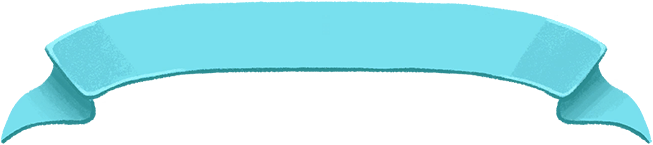
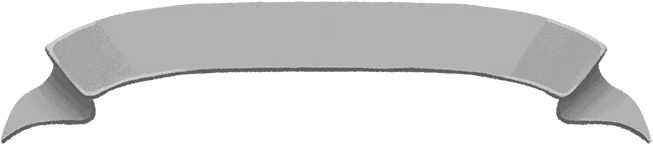
fix: 카드 에셋 수정

diff --git a/Assets/01_Scripts/Cards/CardView.cs b/Assets/01_Scripts/Cards/CardView.cs
@@ -4,19 +4,22 @@ using UnityEngine.Rendering;
 
 public class CardView : MonoBehaviour
 {
+    [Header("# Renderers")]
     [SerializeField] private SpriteRenderer cardImageSr;
     [SerializeField] private SpriteRenderer cardFrameSr;
     [SerializeField] private SpriteRenderer cardBorderSr;
     [SerializeField] private SpriteRenderer cardTypeSr;
 
+    [Header("# Texts")]
     [SerializeField] private TextMeshPro cardNameText;
     [SerializeField] private TextMeshPro cardEffectText; // 변경 가능성
     [SerializeField] private TextMeshPro cardTypeText;
     [SerializeField] private TextMeshPro cardCostText; // 변경 가능성
 
-    [SerializeField] private Sprite[] frameByType; // cardtype enum 순서 atk, ski, pow
-
-    // [SerializeField] private Sprite[] typeIconByType;
+    [Header("# Style Tables")]
+    [SerializeField] private Sprite[] borderByType; // cardtype  순서 atk, ski, pow
+    [SerializeField] private Color[] colorByRarity; // 순서 basic common unique rare
+    [SerializeField] private SpriteRenderer[] rarityTintTargets;
 
 
     private SortingGroup sortingGroup;
@@ -32,22 +35,53 @@ public class CardView : MonoBehaviour
     public void Bind(Card card)
     {
         Card = card;
+        CardData data = card.Data;
 
-        cardNameText.text = card.Data.CardName;
-        cardEffectText.text = card.Data.EffectDescription;
-        cardTypeText.text = card.Data.CardType.ToString();
+        cardNameText.text = data.CardName;
+        cardEffectText.text = data.EffectDescription;
+        cardTypeText.text = ToLabel(data.CardType);
         cardCostText.text = card.Cost.ToString();
 
-        //cardImageSr.sprite = card.Data.CardImage;
+        cardImageSr.sprite = data.CardImage;
 
-        int t = (int)card.Data.CardType;
-        if (t >= 0 && t < frameByType.Length) cardFrameSr.sprite = frameByType[t];
-
+        ApplyBorder(data.CardType);
+        ApplyRarityColor(data.CardRarity);
     }
-    // 이 아래 코드 아직 확실x
-    public void SetSortingOrder(int order)
+
+    private void ApplyBorder(CardType type)
     {
-        sortingGroup.sortingOrder = order;
+        int i = (int)type;
+        if (i < 0 || i >= borderByType.Length)
+        {
+            Debug.LogError("borderByType 값이 지정 범위를 벗어남");
+            return;
+        }
+        cardBorderSr.sprite = borderByType[i];
     }
 
+    private void ApplyRarityColor(CardRarity rarity)
+    {
+        int i = (int)rarity;
+        if (i < 0 || i >= colorByRarity.Length)
+        {
+            Debug.LogError("colorByRarity 값이 지정 범위를 벗어남");
+            return;
+        }
+        Color c = colorByRarity[i];
+        for (int j = 0; j < rarityTintTargets.Length; j++)
+        {
+            rarityTintTargets[j].color = c;
+        }
+    }
+
+    private static string ToLabel(CardType type) => type switch
+    {
+        CardType.Attack => "공격",
+        CardType.Skill => "스킬",
+        CardType.Power => "파워",
+        _ => type.ToString()
+    };
+
+    // 이 아래 코드 아직 확실x
+    public void SetSortingOrder(int order) => sortingGroup.sortingOrder = order;
 }

diff --git a/Assets/01_Scripts/Managers/TurnManager.cs b/Assets/01_Scripts/Managers/TurnManager.cs
@@ -13,6 +13,7 @@ public class TurnManager : MonoBehaviour
     public void StartPlayerTurn()
     {
         ctx.Energy.ResetToDefault();
+        //ctx.Player.D
         ctx.CardPiles.Draw(5);
 
     }
